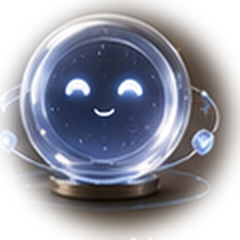
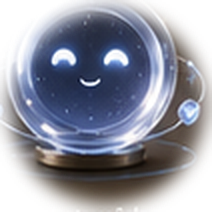
fix(web): orbe de Domi centrado en la esfera + núcleo más grande (no escondido)
- Re-recorté los 5 orbes centrados en la ESFERA (antes incluían pedestal → se veía
  'corrido'); centro corregido (cy=166) y más ajustado, máscara circular difuminada.
- DomiOrb: núcleo más protagonista (0.62 del tamaño en hero) y chips un poco más
  chicos y afuera, para que el orbe no quede escondido tras los chips.

diff --git a/apps/web/app/components/DomiOrb.tsx b/apps/web/app/components/DomiOrb.tsx
@@ -42,9 +42,9 @@ export default function DomiOrb({
   const list = (chips ?? DEFAULT_CHIPS).slice(0, 7);
   const withOrbits = showChips && size >= 96;       // órbitas/puntos solo en tamaño protagonista
   const cx = size / 2;
-  const chipR = size * 0.46;
-  const chipSize = Math.max(22, Math.round(size * 0.26));
-  const coreSize = Math.round(size * (withOrbits ? 0.5 : 0.78));
+  const chipR = size * 0.5;
+  const chipSize = Math.max(20, Math.round(size * 0.21));
+  const coreSize = Math.round(size * (withOrbits ? 0.62 : 0.86)); // núcleo protagonista
 
   // puntos de luz a lo largo de la órbita (decorativos)
   const dots = withOrbits ? [18, 130, 250, 312] : [];
